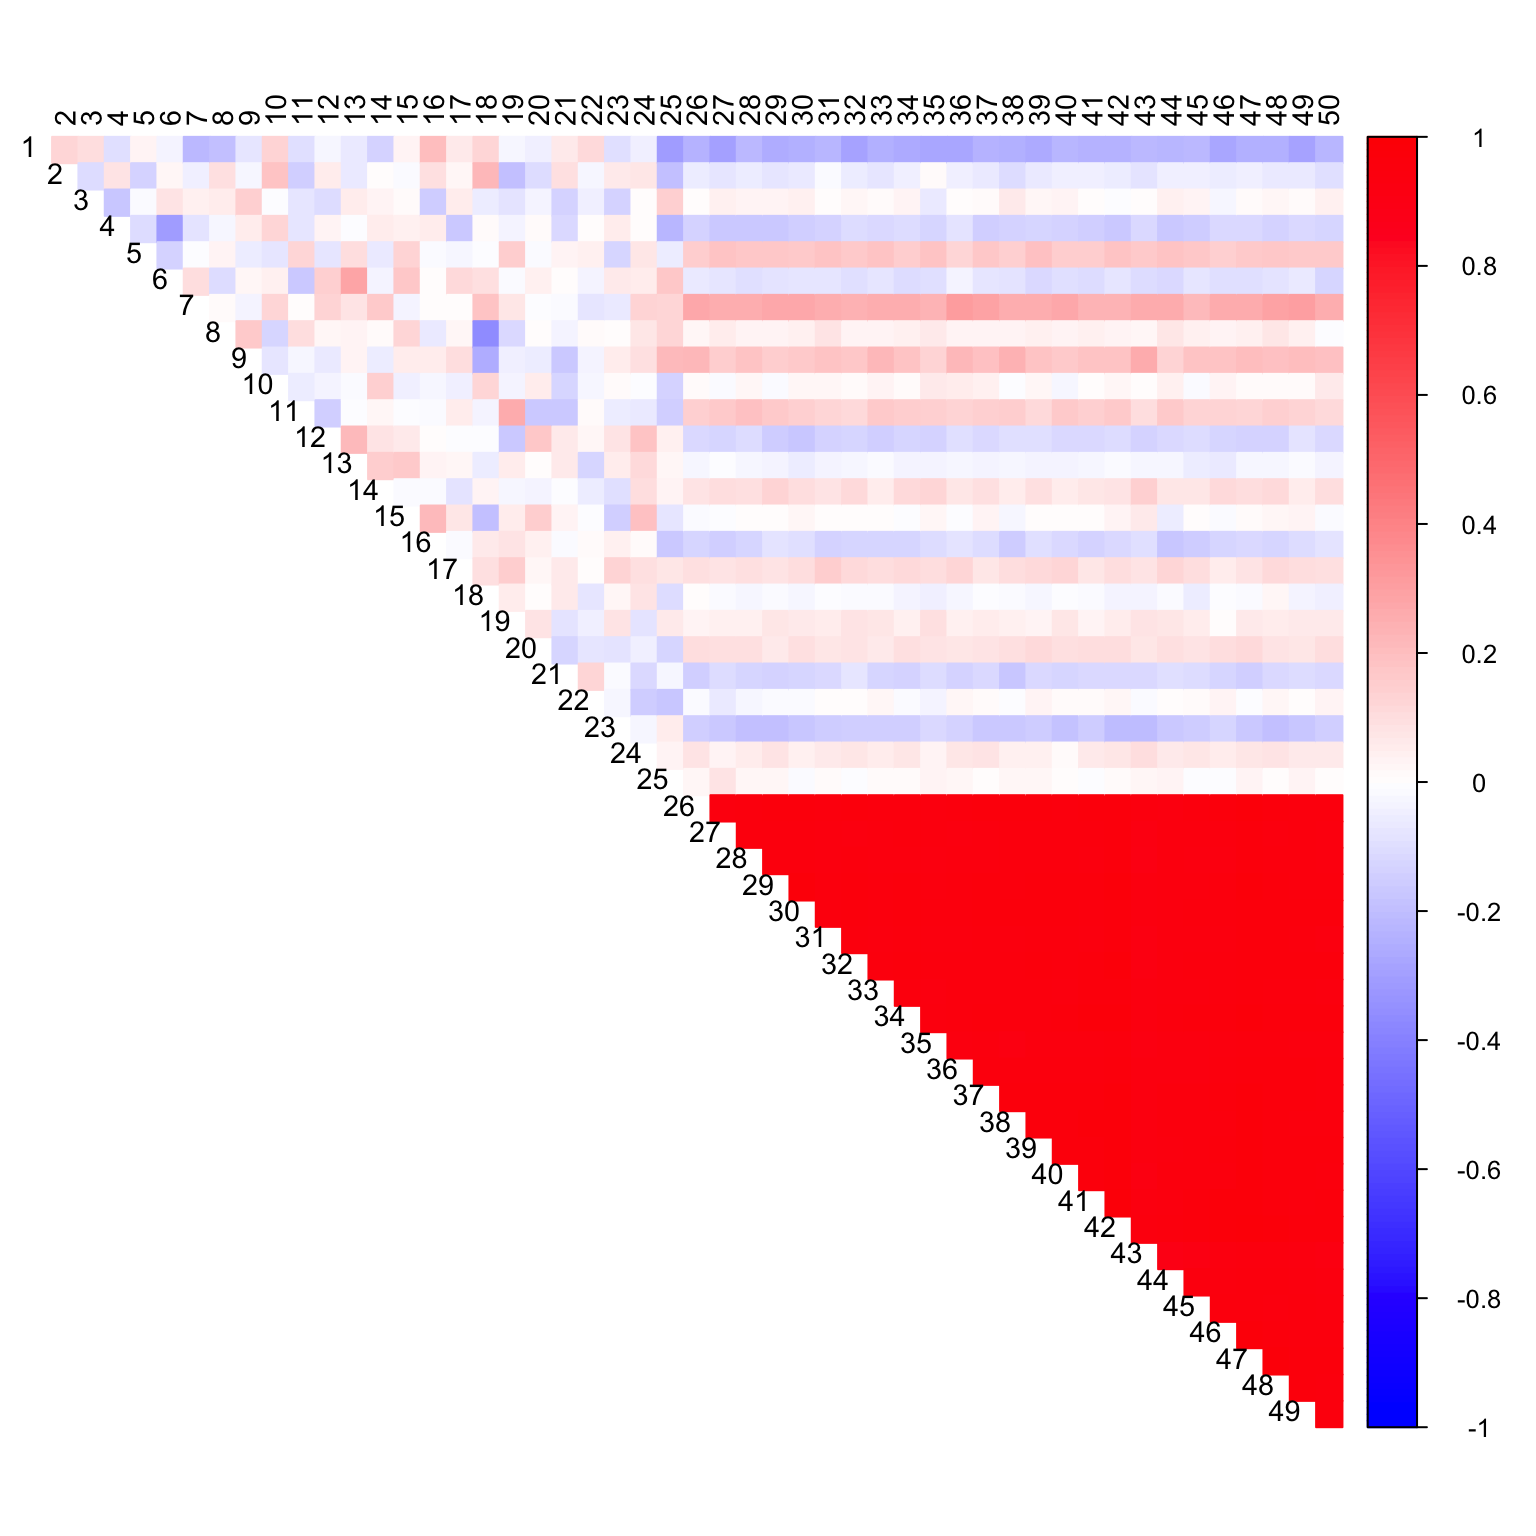
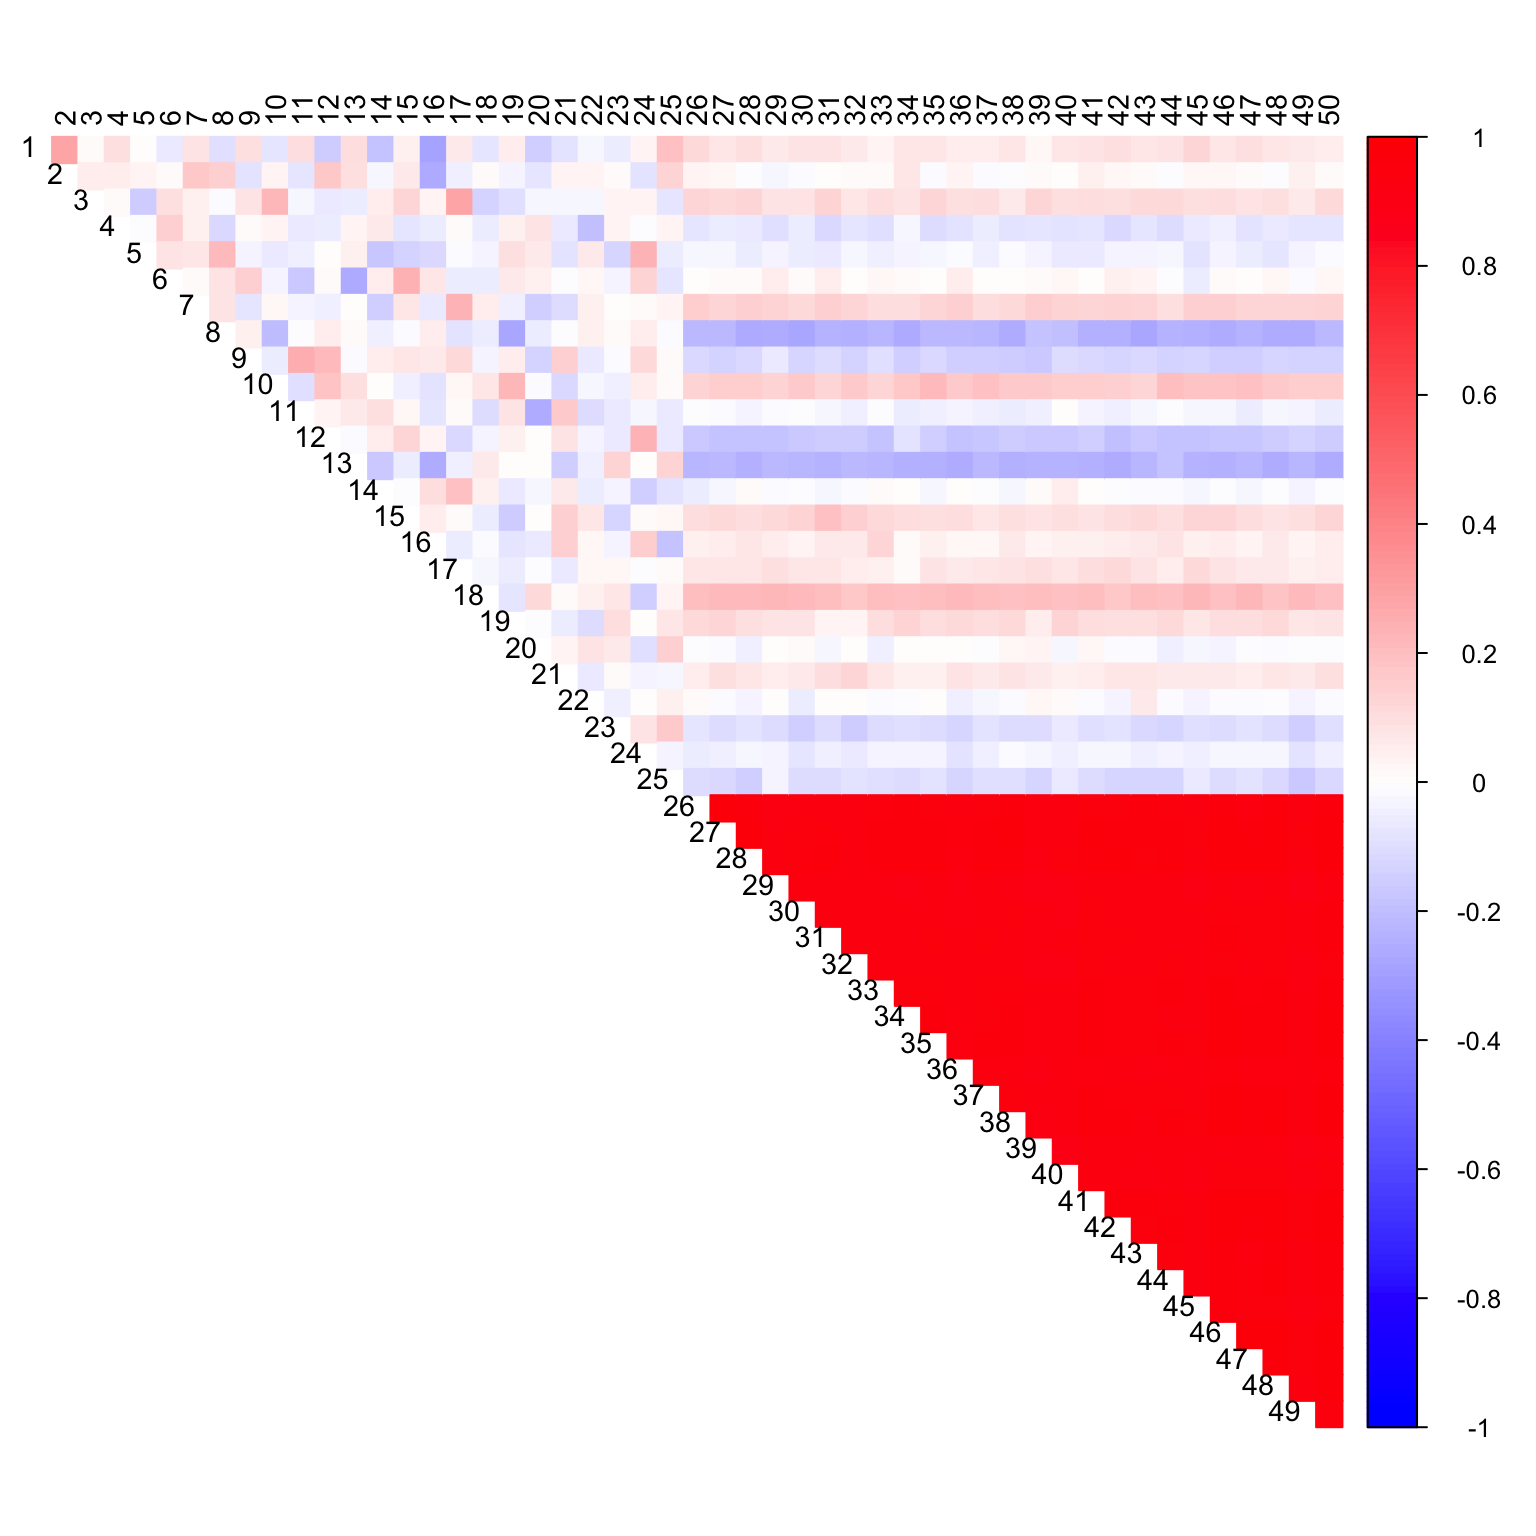
flash and corshrink simulations

Changed region(s): [[0.0312, 0.0625, 0.875, 0.5312]]

diff --git a/docs/flash_corshrink_missing_data_sim.html b/docs/flash_corshrink_missing_data_sim.html
@@ -115,7 +115,7 @@ corrplot(cor_mat, diag = FALSE,
          rect.col = &quot;white&quot;,na.label.col = &quot;white&quot;,
          method = &quot;color&quot;, type = &quot;upper&quot;) </code></pre>
 <p><img src="flash_corshrink_missing_data_sim_files/figure-html/unnamed-chunk-5-1.png" width="768" /></p>
-<pre class="r"><code>cor_mat &lt;- cor(data, use = &quot;pairwise.complete.obs&quot;)
+<pre class="r"><code>cor_mat &lt;- cor(data_with_na, use = &quot;pairwise.complete.obs&quot;)
 col2 &lt;- c(&quot;blue&quot;, &quot;white&quot;, &quot;red&quot;)
 corrplot(cor_mat, diag = FALSE,
          col = colorRampPalette(col2)(200),
@@ -128,7 +128,7 @@ corrplot(cor_mat, diag = FALSE,
 <h2>CorShrink</h2>
 <pre class="r"><code>out &lt;- CorShrink::CorShrinkData(data_with_na, ash.control = list(mixcompdist = &quot;normal&quot;))</code></pre>
 <pre class="r"><code>col2 &lt;- c(&quot;blue&quot;, &quot;white&quot;, &quot;red&quot;)
-corrplot(out$cor, diag = FALSE,
+corrplot(as.matrix(out$cor), diag = FALSE,
          col = colorRampPalette(col2)(200),
          tl.pos = &quot;td&quot;, tl.cex = 0.9, tl.col = &quot;black&quot;,
          rect.col = &quot;white&quot;,na.label.col = &quot;white&quot;,
